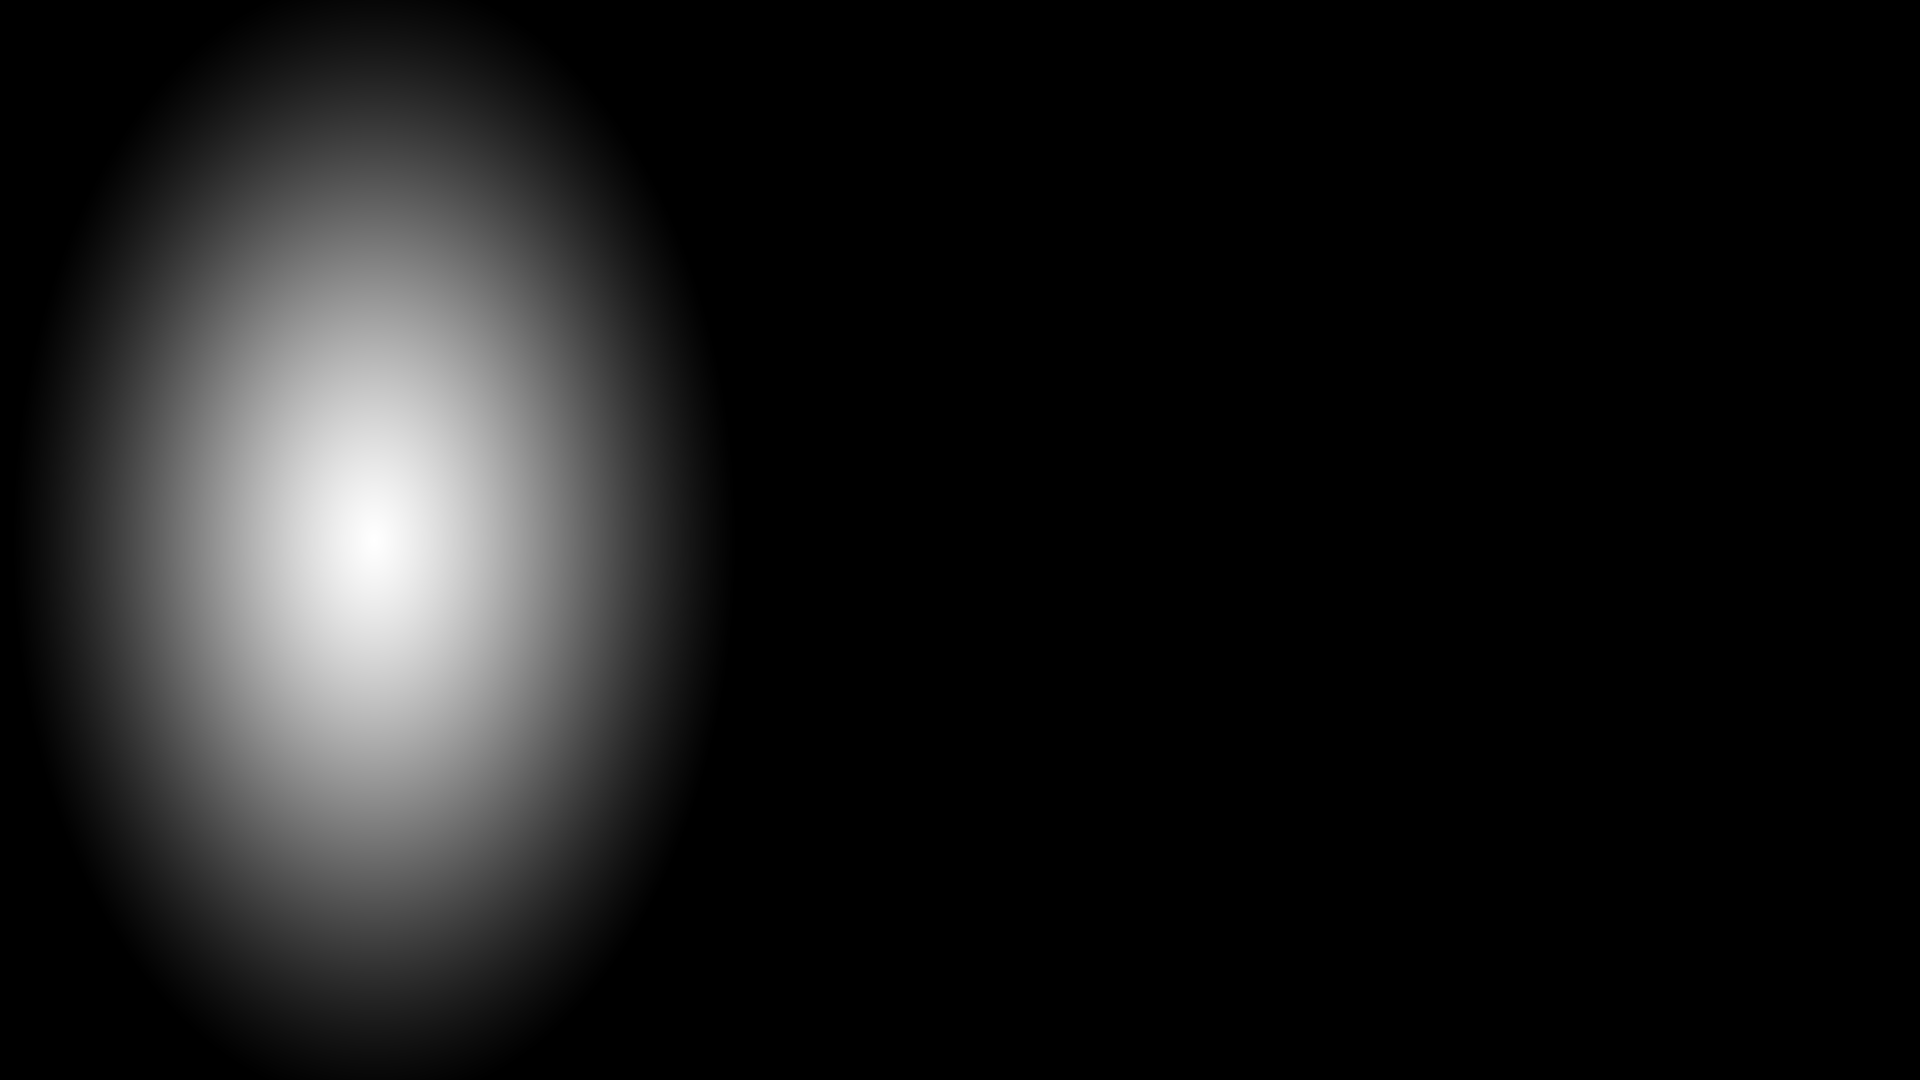
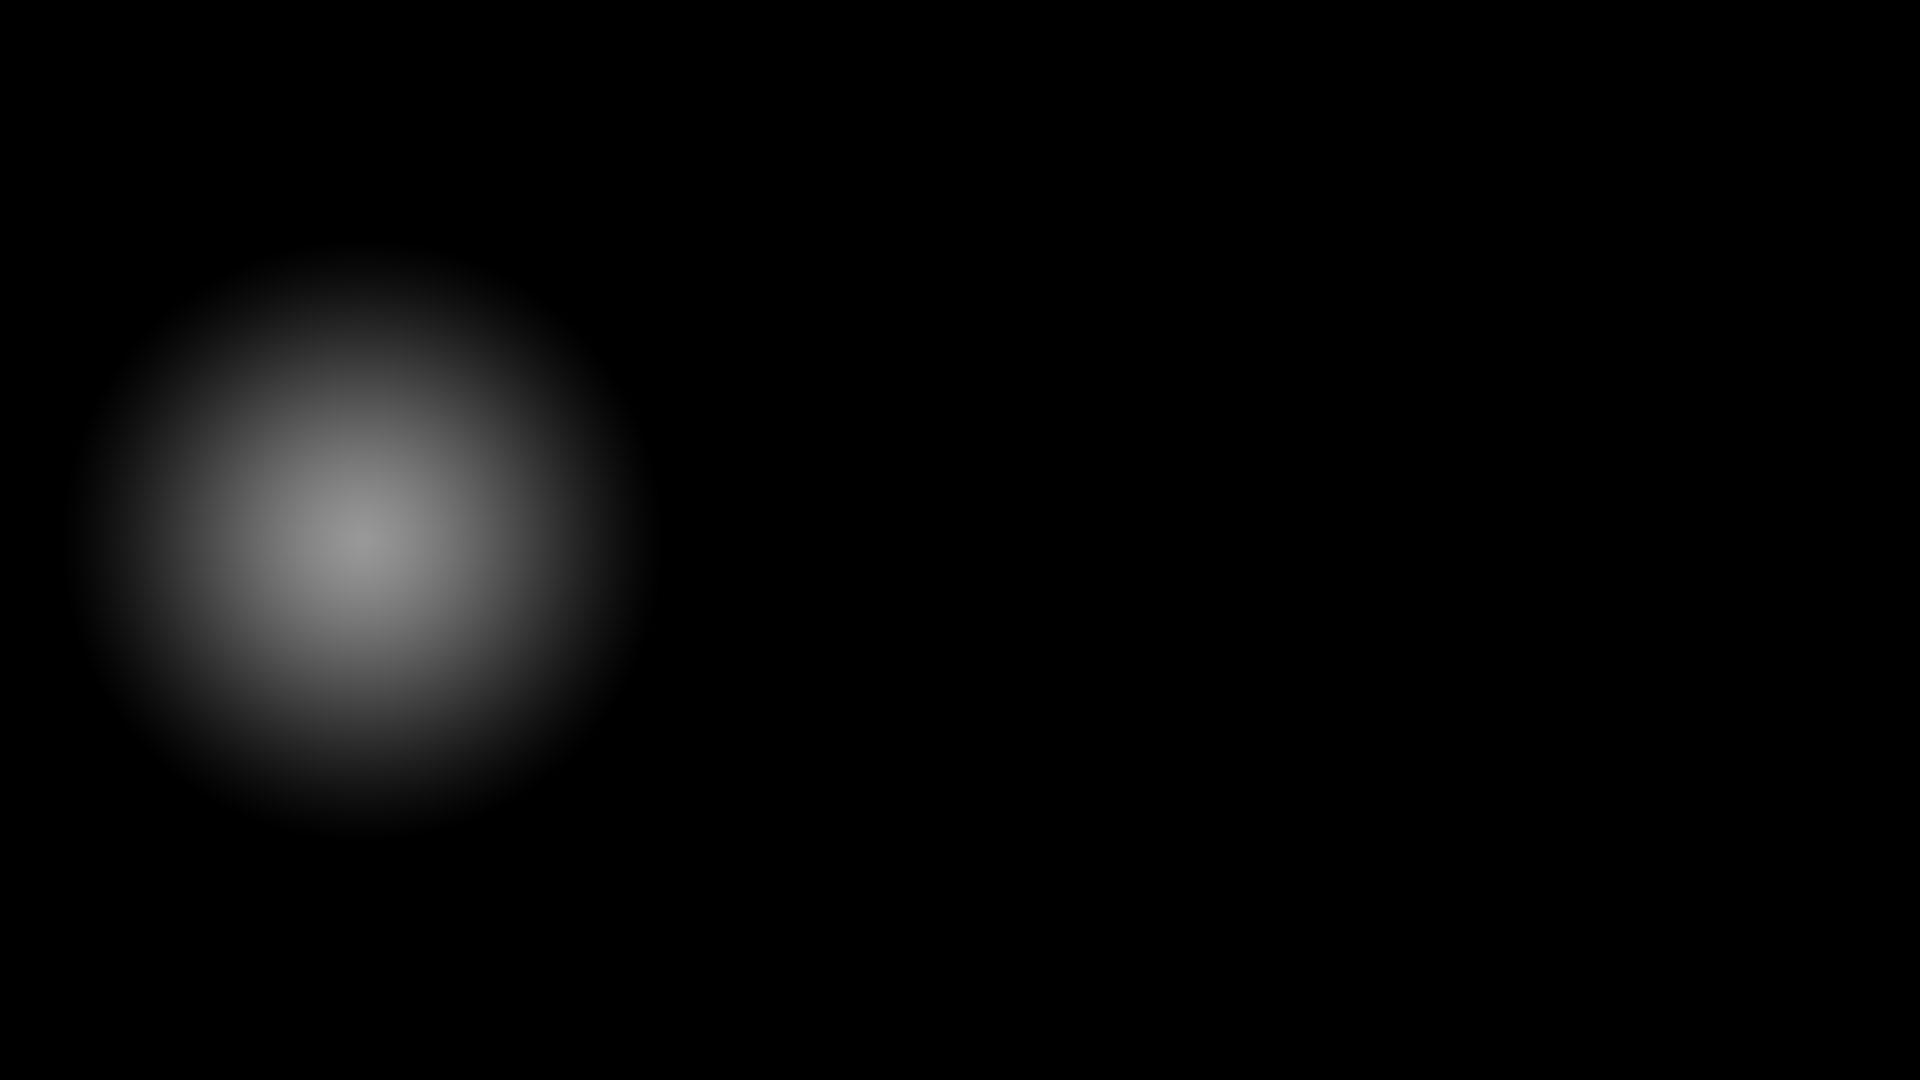
Better and insane fog levels

Changed region(s): [[0.0312, 0.0306, 0.375, 0.9472]]

diff --git a/lib/js/states/stress_level.js b/lib/js/states/stress_level.js
@@ -61,7 +61,7 @@ stress.Level.prototype = {
 		this.player.height = this.game.height / 2.7;
 		this.player.width = this.game.height / 5.4;
 
-		this.player.animations.add('right', [0, 1, 2, 3, 4, 5, 6, 7, 6, 5, 4, 3, 2, 1, 0], 10, true);
+		this.player.animations.add('right', [0, 1, 2, 3, 4, 5, 6, 7, 6, 5, 4, 3, 2, 1], 10, true);
 		this.player.x = -64;
 		this.player.y = stress.game.height - 460;
 		this.player.body.gravity.y = 500;
@@ -99,18 +99,6 @@ stress.Level.prototype = {
 
 		this.obstacles.setAll('body.allowGravity', false);
 		this.obstacles.setAll('body.immovable', true);
-
-		this.mist = this.game.add.image(0, 0, 'level_mist');
-		this.mist.width = this.game.width;
-		this.mist.height = this.game.height;
-		this.mist.fixedToCamera = true;
-		this.mist.alpha = 0;
-
-		this.mistDark = this.game.add.image(0, 0, 'level_mist-dark');
-		this.mistDark.width = this.game.width;
-		this.mistDark.height = this.game.height;
-		this.mistDark.fixedToCamera = true;
-		this.mistDark.alpha = 0;
 
 		this.speedBtn = this.game.add.button(30, stress.game.height - 95, 'level_move', this.accelerate, this, 1, 1, 0);
 		this.speedBtn.scale.setTo(0.5, 0.5);
@@ -154,20 +142,14 @@ stress.Level.prototype = {
 		//countDownText.fixedToCamera = true;
 
 		this.createFancyTimeline();
-
+		this.createFog();
 
 		stress.global.gameOver = false;
 		stress.global.notPlaying = false;
 
 		game = this;
 
-		this.scores = {
-			t0: 0,
-			t1: 0,
-			t2: 0,
-			t3: 0,
-			t4: 0
-		};
+		this.scores = {t0: 0, t1: 0, t2: 0, t3: 0, t4: 0};
 	},
 	stopGame: function() {
 		stress.global.speed = 0;
@@ -258,20 +240,21 @@ stress.Level.prototype = {
 		if (newAudioLevel > 0.8 && newAudioLevel < 1.2) {
 			this.music._sound.playbackRate.value = 1;
 			this.multiplyTimer = true;
+
+			this.mistDark.alpha = 0;
+			this.mist.alpha = 0;
 		} else {
 			this.music._sound.playbackRate.value = newAudioLevel;
 			this.multiplyTimer = false;
-		}
 
-	//	if (this.player.position.x > 600) {
 			if (newAudioLevel > 1) {
 				this.mist.alpha = newAudioLevel - 0.5;
 				this.mistDark.alpha = 0;
 			} else {
 				this.mist.alpha = 0;
-				this.mistDark.alpha = 1 - newAudioLevel;
+				this.mistDark.alpha = 1.1 - newAudioLevel;
 			}
-	//	}
+		}
 
 
 	},
@@ -306,10 +289,6 @@ stress.Level.prototype = {
 		}
 		//this.score = 400;
 		this.score = Math.floor(((this.scores.t0 * 2) + (this.scores.t1 * 8) + (this.scores.t2 * 16) + (this.scores.t3 * 32) + (this.scores.t4 * 64)) * 1.4);
-//		console.log(this.core);
-		//this.score = 400;
-		//window.console.log('t1: ' + this.scores.t1 + ' t2: ' + this.scores.t2 + ' t3: ' + this.scores.t3 + ' t4: ' + this.scores.t4 + ' t5: ' + this.scores.t5);
-
 
 	},
 	preRender: function () {
@@ -327,6 +306,19 @@ stress.Level.prototype = {
 			this.jumpTimer = this.time.time + 150;
 		}
 
+	},
+	createFog: function() {
+		this.mist = this.game.add.image(0, 0, 'level_mist');
+		this.mist.width = this.game.width;
+		this.mist.height = this.game.height;
+		this.mist.fixedToCamera = true;
+		this.mist.alpha = 0;
+
+		this.mistDark = this.game.add.image(0, 0, 'level_mist-dark');
+		this.mistDark.width = this.game.width;
+		this.mistDark.height = this.game.height;
+		this.mistDark.fixedToCamera = true;
+		this.mistDark.alpha = 0;
 	},
 	createFancyTimeline: function() {
 		// Timepath
@@ -396,12 +388,12 @@ stress.Level.prototype = {
 
 			if (this.acceleration) {
 				if (stress.global.speed < 1650) {
-					stress.global.speed += 6;
+					stress.global.speed += 8;
 				} else {
 					this.gameOver();
 				}
 			} else if (stress.global.speed > 100) {
-				stress.global.speed -= 6;
+				stress.global.speed -= 8;
 			} else {
 				stress.global.speed = 99;
 			}
